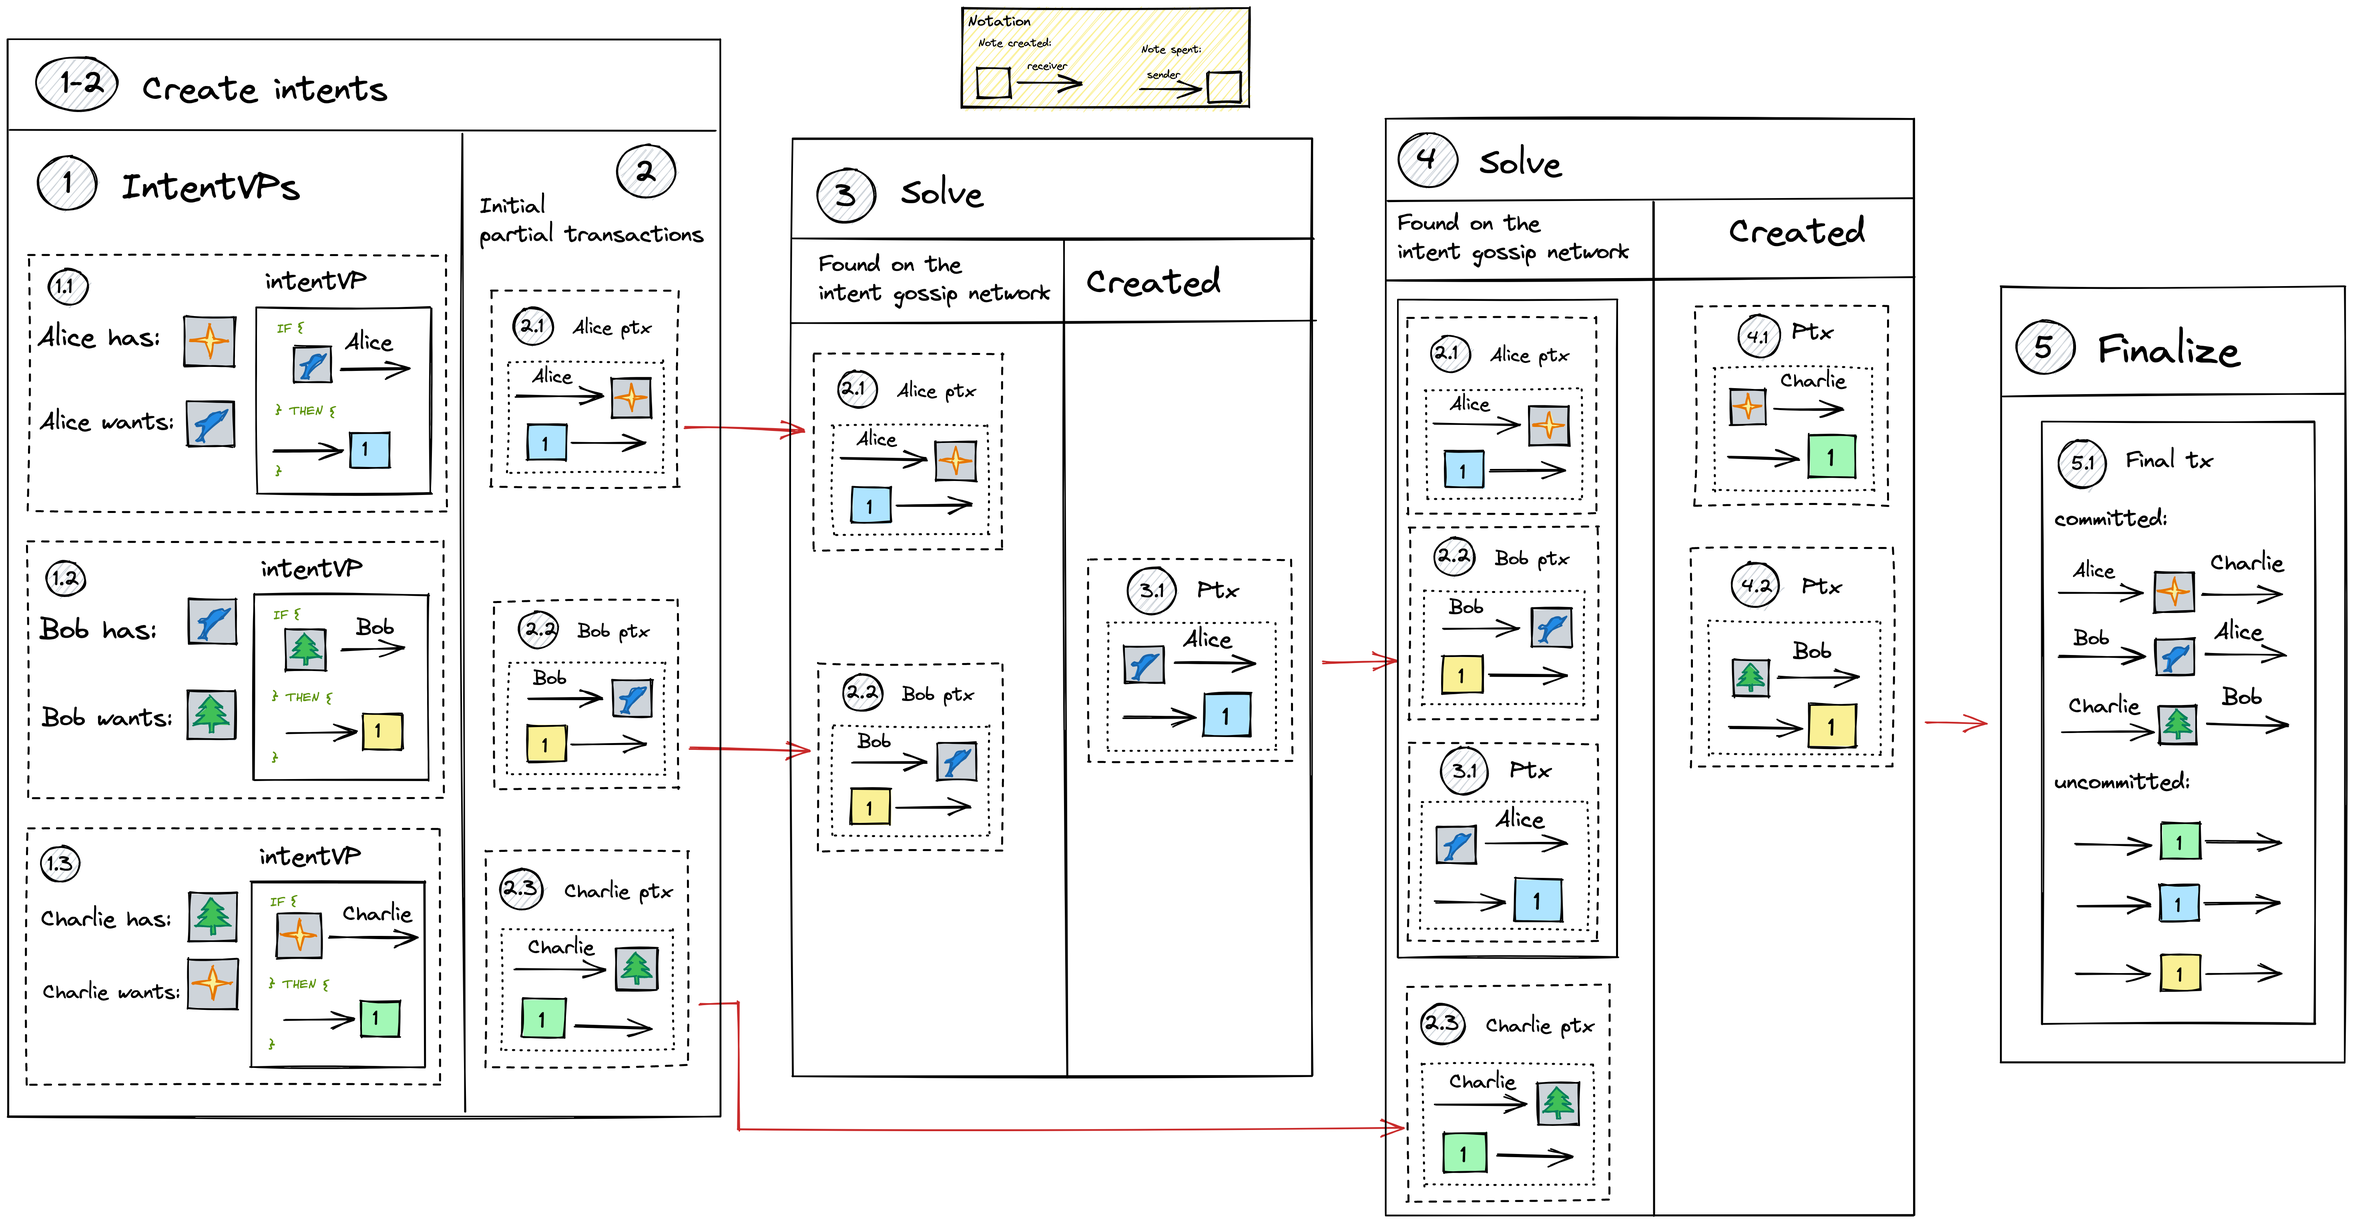
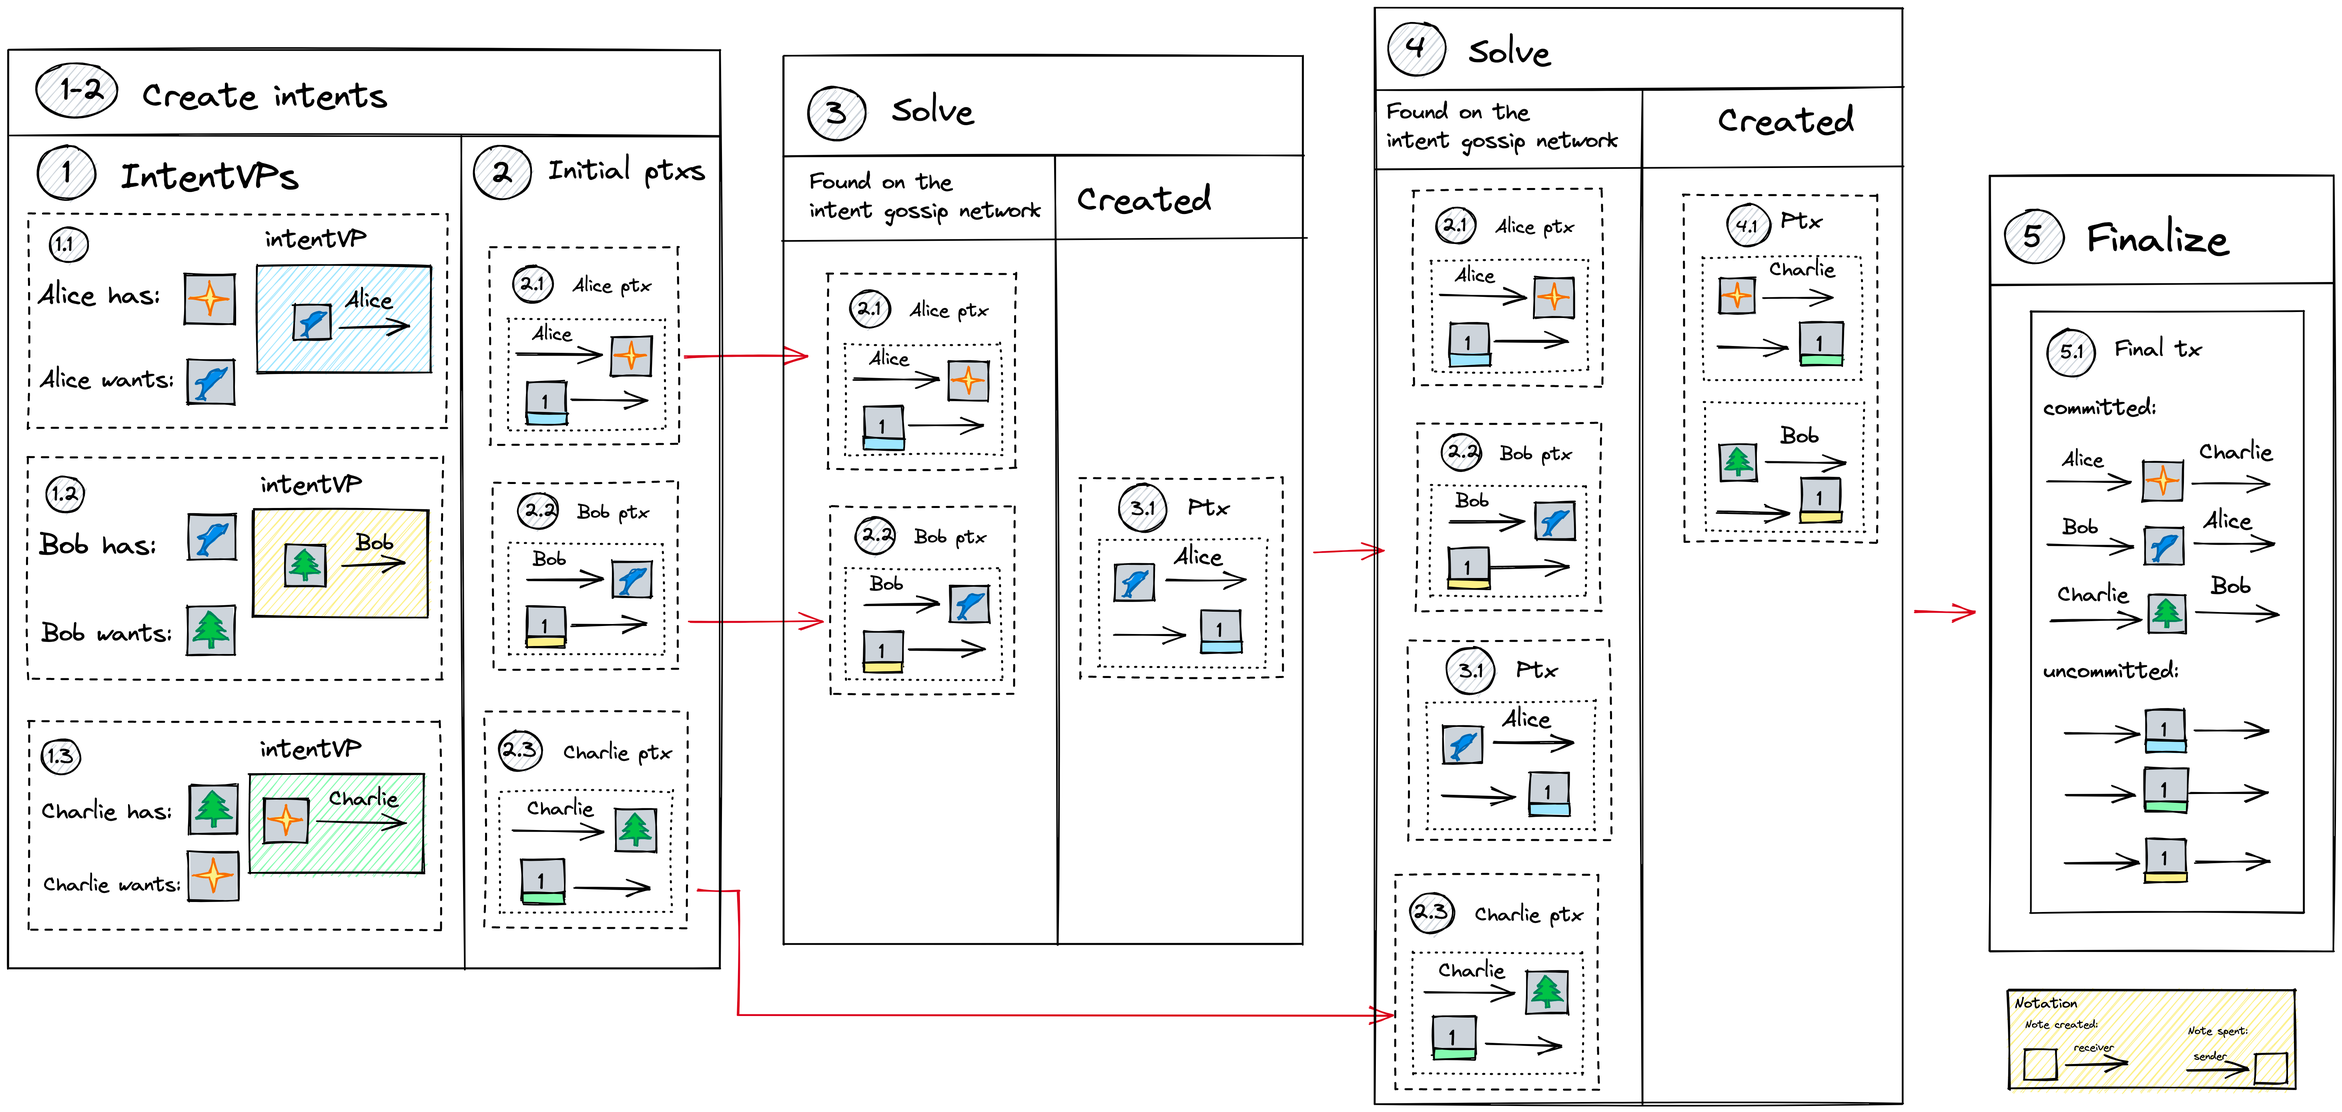
Update diagrams, remove old diagrams, edit text

diff --git a/book/src/exec_examples.md b/book/src/exec_examples.md
@@ -23,13 +23,15 @@ All total (accumulated over ptxs) per-token balances are equal to 0, and the fin
 
 **Step 4**: The final transaction is created using the spent and output notes from the partial transactions.
 
-#### Ptxs detailed description
+#### Partial transactions' details
 
 ||spent notes|created notes|Apps|VP proofs|total balance (accumulated)|
 |-|-|-|-|-|-|
 |ptx #1 (Alice)|[1]A, [2]B|[Alice intent note]|intent app, A token, B token|Alice intentVP, intent App VP, Alice A userVP, A appVP, Alice B userVP, B appVP (6)|-[1]A-[2]B + [Alice intent note]|
 |ptx #2 (Bob)|[blue dolphin NFT]|[1]A|blue dolphin NFT app, A token|Bob A userVP, A appVP, Bob NFT userVP, NFT appVP (4)|-2[B] - [blue dolphin NFT] + [Alice intent note]
 |ptx #3 (Solver)|[Alice intent note]|[blue dolphin NFT], [2]B|intent app, blue dolphin NFT app, B token|Alice NFT userVP, NFT appVP, Alice intent userVP, intent AppVP, Alice B user VP, B appVP (6)|0|
+
+We assume here that all applications support userVPs and that both Alice and Bob have a userVP in each application.
 
 ### 2. Three-party barter
 
@@ -38,16 +40,20 @@ Their intents can be matched into a three-party bartering cycle. Let's see step 
 
 **Note**: parties don't ask for a three-party bartering explicitly.
 
+**Note**: in the example below each party uses the intent app to describe simple requests that can be satisfied without the intent app. 
+It helps to show how the intent app can be used without making the diagram and the example overcomplicated.
+
 ![img.png](img/exec_3_party.png)
 
-**Step 1-2**: The users define their intents and create intent userVPs.
-It doesn't have to happen at the same time for all users, but for simplicity we describe it as one step.
-The intent userVPs of all three users have the same structure: users are willing to spend their asset (Alice - a star, Bob - a dolphin, Charlie - a tree) in exchange for some other asset.
-Once the user receives the desired asset, the intent note is spent.
-In addition to that, all three users also create their initial partial transactions spending the asset they are ready to give away (Alice ptx, Bob ptx, and Charlie ptx).
+**Step 1-2**: The users create their intent userVPs. It doesn't have to happen at the same time for all users, 
+but for simplicity we describe it as one step. The intent userVPs of all three users have the same structure: 
+users are willing to spend their asset (Alice - a star, Bob - a dolphin, Charlie - a tree) in exchange for some other asset, 
+and once the user receives the desired asset, the user's intent is satisfied.
+Users create their initial partial transactions spending the asset they want to give away (Alice ptx, Bob ptx, and Charlie ptx).
 
-**Step 3**: A solver sees Alice's ptx and Bob's ptx, matches them together, and creates a new partial transaction.
-Alice's intent userVP is satisfied, and her intent note is spent.
+**Step 3**: A solver sees Alice's ptx and Bob's ptx, matches them together, and creates a new partial transaction 
+(expecting to find a third ptx to create the cycle). Alice's intent userVP is satisfied, and her intent note can be spent.
+The solver adds the required VP proofs to the freshly created partial transactions.
 
 Total per-token balances:
 
@@ -76,16 +82,11 @@ Total per-token balances:
 **Step 5**:
 The final transaction containing the spent and output notes from partial transactions is created with all proofs attached.
 
-### 2. Three-party barter without intents
-![img.png](img/exec_3_party_no_intents.png)
-
-
-
 ### 3. One way to represent arbitrary states
 
 For an arbitrary application, notes store the state of the application. When the application needs to change its state,
 it (i.e. any party that has the authority) can spend the old state and produce a new state.
-If the state change is possible within one partial transaction, such a note has a value 0 and doesn't affect the total balance.
+If the state change is possible within one partial transaction, such a note can have value 0 and doesn't affect the total balance.
 ![img.png](img/exec_arbitrary_state_update.png)
 
 If the state change happens across partial transactions (meaning that the state gets consumed in one partial transaction, and a new state is output in another),

diff --git a/book/src/intro.md b/book/src/intro.md
@@ -1,26 +1,32 @@
 # Introduction
 
-Taiga is a **shielded** state transition protocol that allows applications built on top of it to enjoy the advantages of fully shielded multi-party state transitions (hiding the application type, the data associated with it, involved parties, etc) without giving up the application complexity.
-
-**Validity predicates** are a key component of Taiga - applications built on top of Taiga use them to express the application rules, and Taiga makes sure that the rules are being followed.
-Validity of a transaction is defined by validity predicates of all parties involved in the transaction.
+Taiga is a **shielded** state transition protocol that allows applications built on top of it to enjoy the advantages of fully shielded multi-party state transitions 
+(hiding the application type, the data associated with it, involved parties, etc) without giving up the application complexity.
 
 ![img.png](img/Intro_Taiga_Apps.png)
 
+[**Validity predicates**](./validity-predicates.md) are a key component of Taiga - applications built on top of Taiga use them to express the application rules, 
+and Taiga makes sure that the rules are being followed. The [Action circuit](./action.md) is responsible for checking that the Taiga rules are preserved.
+
+The state transition is considered to be valid if validity predicates of all involved parties are satisfied, and the Action circuit check passed successfully.
+
+
 #### ZKP privacy
 
-Taiga uses ZKPs to hide the sensitive information about the state transitions (application types, parties involved, etc). Transactions of different applications are indistinguishable from one another and all applications benefit from the shared shielded pool of transactions.
+Taiga uses zero-knowledge proof system Halo2 to hide the sensitive information about the state transitions (application types, parties involved, etc). 
+Transactions of different applications are indistinguishable from one another and all applications benefit from the shared shielded pool of transactions.
 
 #### UTXO model
 
-Taiga is based on the UTXO model - the application states are stored in immutable objects called **notes**. To update the state, an application (or anyone with sufficient rights) would spend the notes containing the old state and create notes containing a new state.
+Taiga is based on the UTXO model - the application states are stored in immutable objects called **notes**. 
+To update the state, an application (or anyone with sufficient rights) would spend the notes containing the old state and create notes containing a new state.
 
 ![img_2.png](img/Intro_UTXO.png)
 
 #### Some of the nice Taiga features
 
 * Support for arbitrary *atomic* multi-party state transitions
-* Data and *function privacy*: to a third-party observer, all transactions look the same
+* Data and *function privacy*: to a third-party observer, all transactions look the same, no matter what applications are involved
 * *Matchmaking* is taken care of: with the help of *intent application* and *solvers* finding counterparties became easy
 * Taiga is compatible with transparent Anoma. Assets can be moved between the transparent and shielded pool, applications can support both types of state transitions (if they want)
 * Performance benefits from using PLONK arithmetization (including lookups)

diff --git a/book/src/intent.md b/book/src/intent.md
@@ -3,10 +3,12 @@
 **Intent application** allows users to express their interests with high level of uncertainty about the final state transition. 
 When a user doesn't have a specific interest but can be satisfied with multiple versions of a state transition, intents help.
 
+**Note**: Users can still use intents to express their interests even when they know what they want, but it is more expensive and unnecessarily complicated.
+
 Like all other applications, intent application has an application VP that defines the application logic. 
-Users of the intent application express their preferences in their `userVP`s.
-**Intent appVP** hierarchically enforces the check of **intent userVP**s, 
-and **intent application notes** are used to keep the transaction unbalanced (to make sure it doesn't get published), 
+Users of the intent application express their preferences in their `userVP`.
+Intent appVP hierarchically enforces the check of intent userVPs, 
+and intent application notes are used to keep the transaction unbalanced (to make sure it doesn't get published), 
 until the interests of all users are satisfied.
 
 ### Intent notes
@@ -17,7 +19,7 @@ Notes of that type are responsible to make sure that the intent userVP used to d
 Strictly speaking, the notes don't make the intent userVP to be satisfied, 
 but rather make sure that the transaction doesn't get published until the intent userVP is satisfied.
 
-When a user specifies their intent, they create an intent note with the value base derived from their VP and value 1.
+When a user specifies their intent userVP, they create an intent note with the value base derived from the userVP and value 1.
 This note gets spent (balancing the transaction) only when the underlying intent is satisfied. 
 Only a fully balanced transaction can be published on the blockchain, 
 and balancing the intent notes requires satisfying the intent userVPs.
@@ -28,15 +30,12 @@ Intent app notes are **dummy** notes - meaning that unlike "normal" notes, the m
 
 **Note**: being a dummy note and having zero value are two independent concepts in Taiga. Zero value notes aren't necessarily dummy, dummy notes can have non-zero value.
 
-#### How intent app helps
+#### How to use the intent application
 
-How to use the intent application:
 1. Spending notes in the initial partial transaction, the user additionally outputs intent note of value [1].
    This note will only be spent if the user's intent userVP is satisfied.
 2. Once all the parties involved in a state transition spent their intent app notes (meaning that the interests of all of them are satisfied), the transaction is balanced and can be finalized.
-   
-![img.png](img/exec_intent_notes.png)
+  
+![img.png](img/exec_intent_notes.png) 
 
-The solvers need to know the content of the intent userVPs to know how to satisfy them.
-
-Users can still use intents to express their interests even when they know what they want, but it is more expensive and unnecessarily complicated
+**Note**: The solvers need to know the content of the intent userVPs to know how to satisfy them.

diff --git a/book/src/validity-predicates.md b/book/src/validity-predicates.md
@@ -1,13 +1,13 @@
 # Validity predicate (VP)
 
 In Taiga, there are two types of mechanisms enforcing the validity of a transaction: 
-* the first type is the Taiga rules that are the same for all transactions (e.g. the note must exist before being spent).
+* the first type is the Taiga rules that are the same for all transactions (e.g. the note must exist before being spent) and are checked by the [Action circuit](./action.md).
 * the second type is called **validity predicates**. The choice of VPs to be checked to validate a transaction depends on the applications involved in the transaction.
 
 A **validity predicate** is a piece of code defined by an application that authorizes transactions the application is involved in.  A valid (can be published on the blockchain) transaction satisfy the VPs of all involved applications.
 
 A single transaction that changes the state of two applications has to be:
-* checked against the Taiga rules
+* checked against the Taiga rules (the Action circuit)
 * checked against the VP of the first application
 * checked against the VP of the second application
 
@@ -28,9 +28,10 @@ The application VP will enforce checking the userVP of each user involved in the
 
 ![img.png](img/vp_hierarchy.png)
 
-### Transparent vs schielded VPs
-Validity predicates can be both transparent and shielded. Transparent VPs are represented as WASM code and publicly visible, shielded VPs are represented as arithmetic circuits hidden under ZKPs.
-Each transaction in Taiga has VP proofs attached to it, and whoever has the verifying key (VK), can verify the proofs.
+### Transparent vs shielded VPs
+Validity predicates can be both transparent and shielded. Transparent VPs are represented as WASM code and publicly visible, 
+shielded VPs are represented as arithmetic circuits hidden under ZKPs. Each transaction in Taiga has VP proofs attached to it, 
+and whoever has the verifying key (VK), can verify the proofs.
 
 ![img.png](img/vp_img.png)
 

diff --git a/book/src/action.md b/book/src/action.md
@@ -1,13 +1,13 @@
-# Action circuit
+# The Action circuit
 
 Every time a user wants to create or spend a note, 
-Action circuit check is required to make sure that the user doesn't violate Taiga rules. 
+the Action circuit check is required to make sure that the user doesn't violate Taiga rules. 
 The conditions checked in the Action circuit are the same for all transactions, 
 unlike validity predicate checks that depend on the applications involved in the transaction.
 
 ### Spent note checks
 
-For spent notes, Action circuit checks that:
+For spent notes, the Action circuit checks that:
 * the note existed before (can you spend a note that doesn't exist?),
 * the note haven't been spent yet,
 * the user has a right to spend it (do you own the note?),
@@ -15,9 +15,8 @@ For spent notes, Action circuit checks that:
 
 ### Created note checks
 
-For the notes being created, Action circuit checks that:
+For the notes being created, the Action circuit checks that:
 * the correct application approves it (same check as for spent notes)
 * and the note commitment is derived correctly (the thing that makes everyone to know that the note exists)
 
-
-To learn in details about the checks Action circuit performs, check the [technical specification of Taiga](./spec.md).
+To learn in details about the checks the Action circuit performs, check the [technical specification of Taiga](./spec.md).

diff --git a/book/src/app.md b/book/src/app.md
@@ -16,7 +16,6 @@ In some sense, Taiga applications are similar to Ethereum applications, but ther
 * Ethereum uses smart contracts (imperative) when Taiga uses validity predicates (declarative) to express the application logic (learn more about the difference in the [Anoma whitepaper](https://github.com/anoma/whitepaper/blob/main/whitepaper.pdf), check page 3)
 * Taiga applications are shielded by default, but can be defined separately over the transparent pool as well. The shielded and transparent parts of the application can interact with each other, but whatever happens in Taiga is always shielded
 
-
 ### Application VP
 Each application has an [`appVP`](./validity-predicates.md) that defines the conditions on which the application can be used (i.e. the application notes can be sent or received). Every time a note that belongs to the application is spent or created, `appVP` is called to authorize the transaction.
 
@@ -29,6 +28,6 @@ Notes of distinct types are independent of each other, unless explicitly designe
 
 ![img_1.png](img/app_with_multiple_note_types.png)
 
-#### Example
-- a cryptocurrency application CUR (matches the token name) and `appVP` that makes sure that the transaction is balanced
+#-- example
 
+The simplest application could be a cryptoasset application CRY with the `appVP` that makes sure that the transaction is balanced.

diff --git a/book/src/deprecated/unsorted.md b/book/src/deprecated/unsorted.md
@@ -22,3 +22,14 @@ The VP configuration includes the following "gates" in the PLONK configuration:
 * Field addition/multiplication
 * Elliptic curve addition and scalar multiplication
 * Poseidon hash
+
+#### Partial transactions' details
+
+||spent notes|created notes|Apps|VP proofs|total balance (accumulated)|
+|-|-|-|-|-|-|
+|ptx #2.1 (Alice)|star NFT|Alice intent note|star NFT app, intent app|star NFT appVP, intent appVP, Alice star NFT userVP(3)|-[star NFT] + [Alice intent note]|
+|ptx #2.2 (Bob)|blue dolphin NFT|Bob intent note|blue dolphin NFT, intent app|blue dolphin NFT appVP, intent appVP, Bob blue dolphin NFT userVP(3)|-[star NFT] - [blue dolphin NFT] + [Bob intent note] + [Alice intent note]
+|ptx #3.1 (Solver #1)|[Alice intent note]|[blue dolphin NFT for Alice]|blue dolphin NFT app, intent app|blue dolphin NFT appVP, intent appVP, Alice intent userVP|-[star NFT] + [Bob intent note]|
+|ptx #2.3 (Charlie)|tree NFT|Charlie intent note|tree NFT app, intent app||-[star NFT] - [tree NFT] + [Bob intent note] + [Charlie intent note]|
+|ptx #4.1 (Solver #2)|[Bob intent note], [Charlie intent note]|[star NFT for Charlie], [tree NFT for Bob]|intent app, star NFT app, tree NFT app||0|
+star NFT appVP, intent appVP, Alice star NFT userVP, Alice intent userVP (4)

diff --git a/book/src/deprecated/token.md b/book/src/deprecated/token.md
@@ -1,0 +1,7 @@
+# Token application
+
+Applications that implement a cryptoasset may be the simplest example of an application. 
+A basic validity predicate of a token application would just make sure that the balance is preserved, 
+but more complex versions can have additional constraints.
+
+A token application might allow its users to have userVPs so that the users can express their preferences.

diff --git a/book/src/SUMMARY.md b/book/src/SUMMARY.md
@@ -3,7 +3,7 @@
 - [Introduction](intro.md)
 - [Applications](app.md)
     - [Users](deprecated/users.md)
-    - [Token Application](./token.md)
+    - [Token Application](deprecated/token.md)
 - [Notes](./notes.md)
 - [Validity predicates](./validity-predicates.md)
 - [Action](./action.md)
